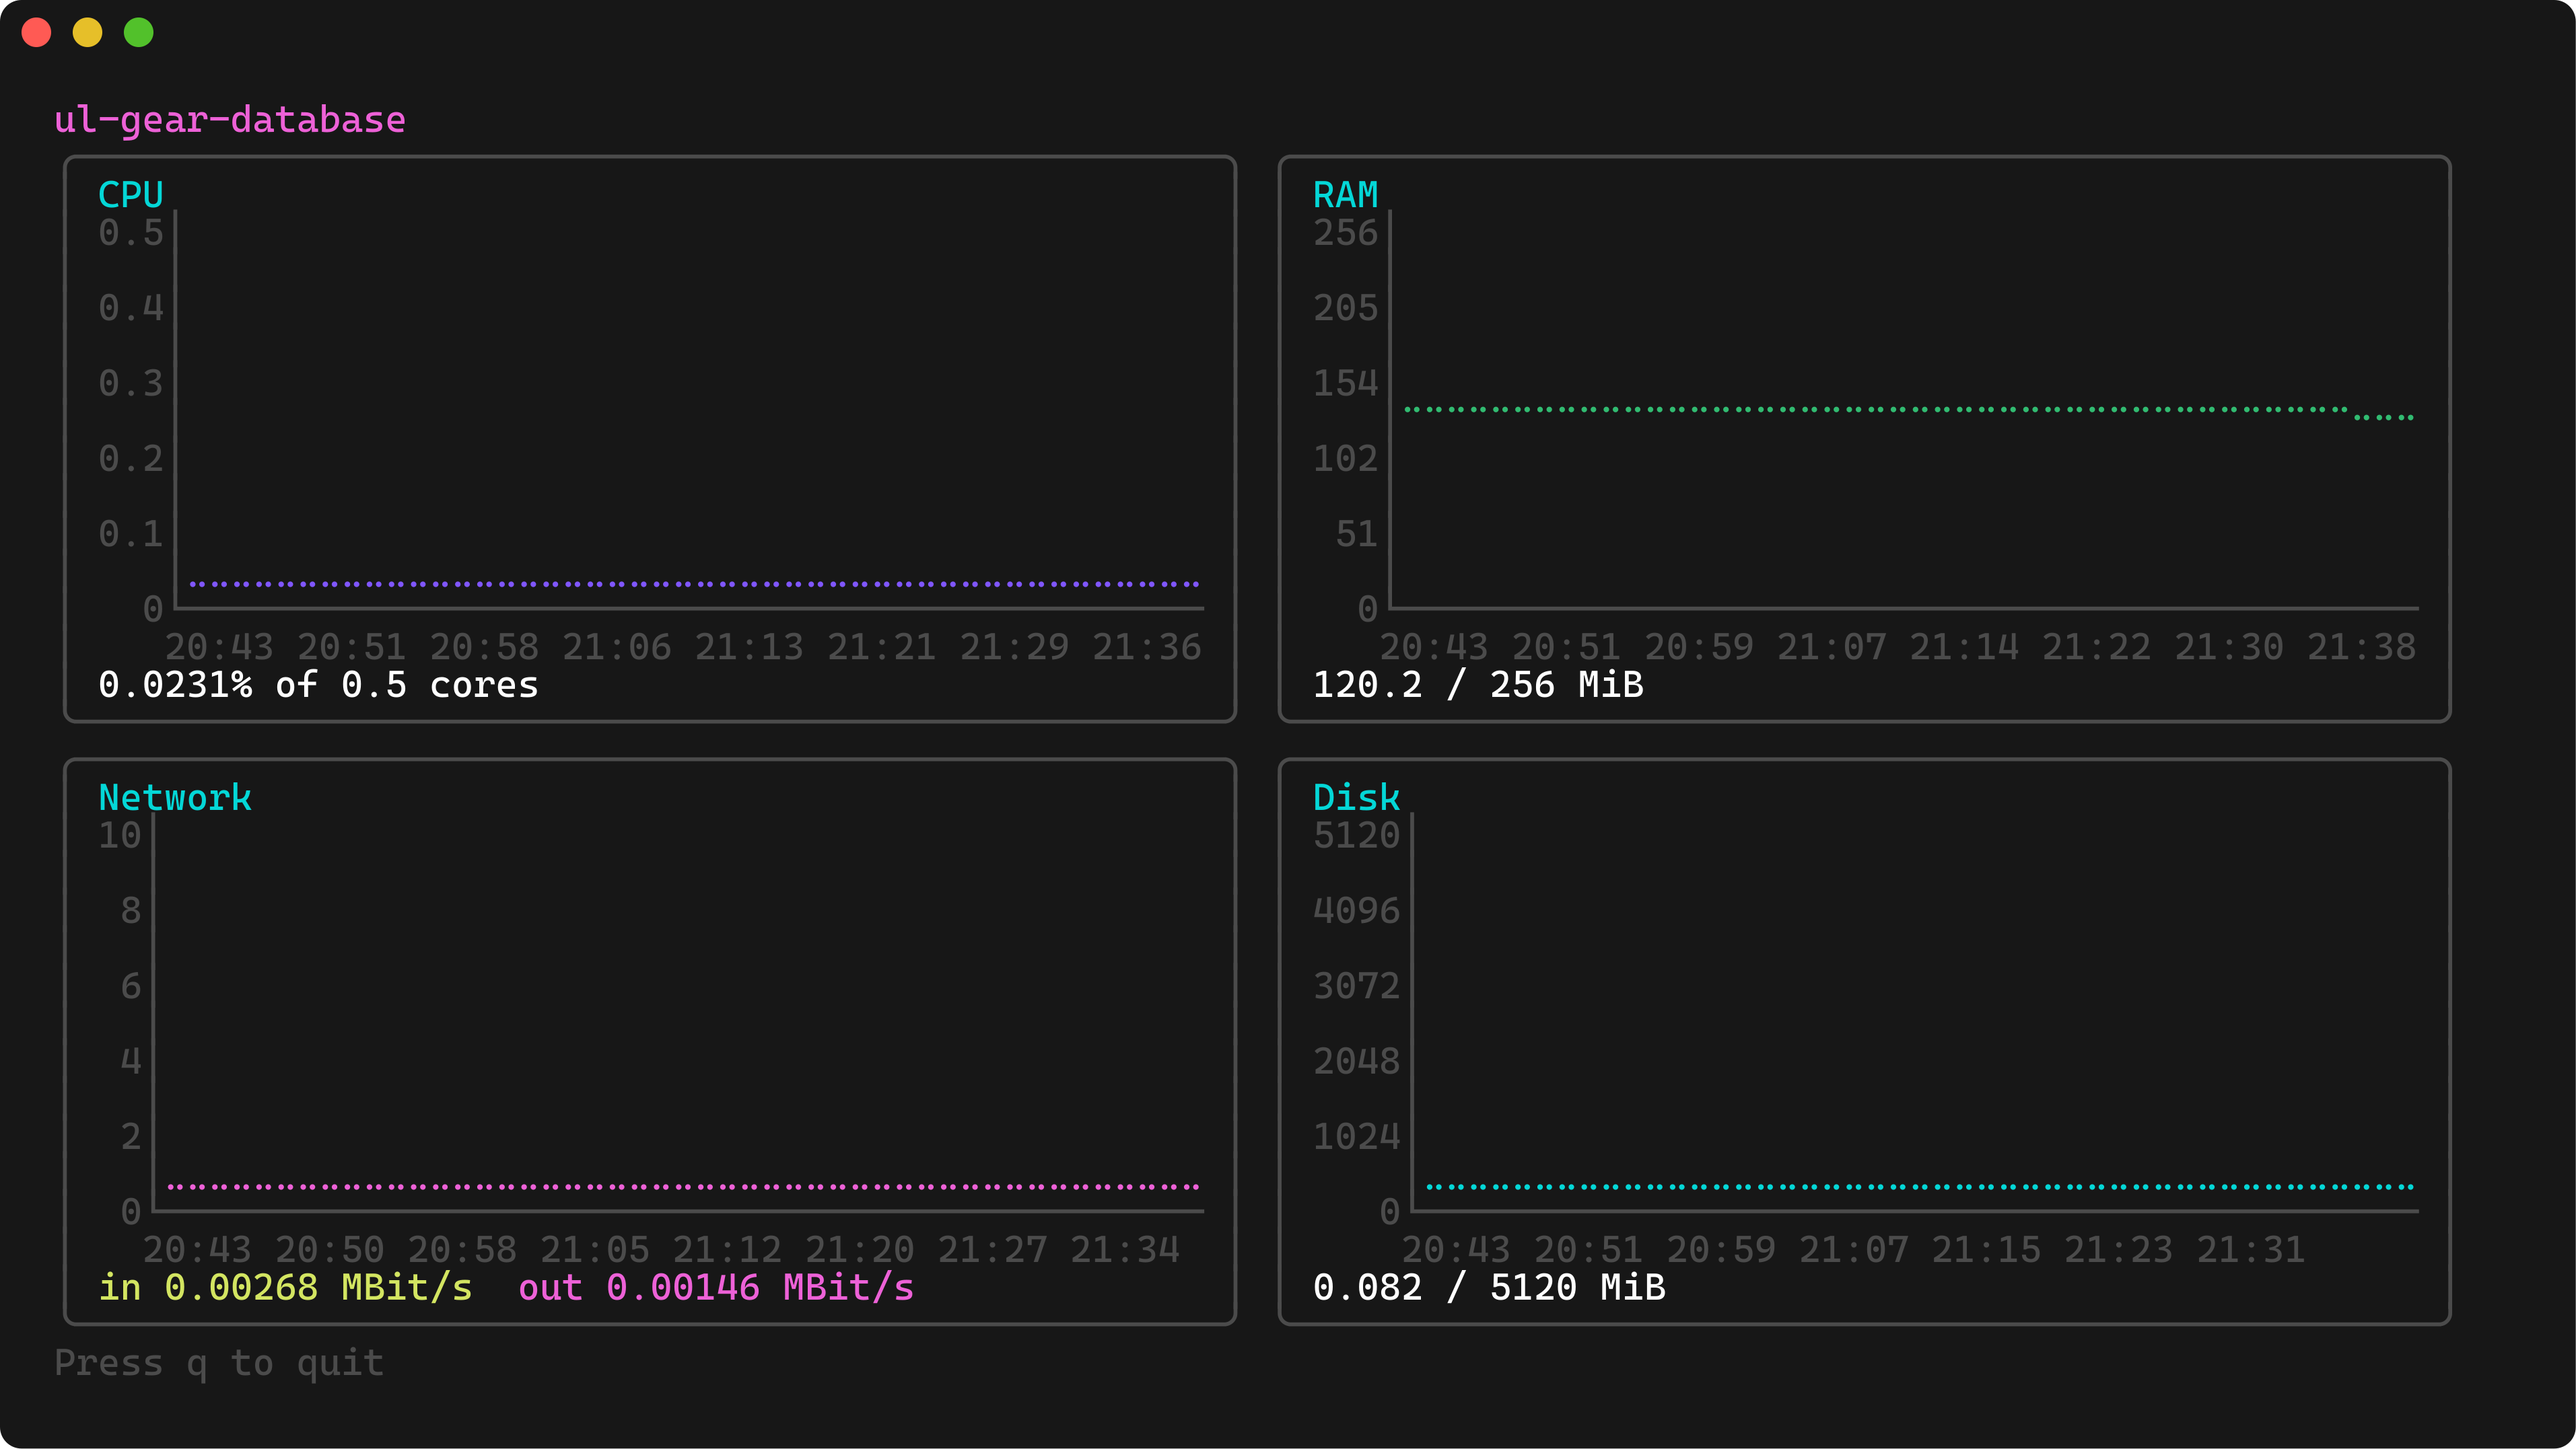
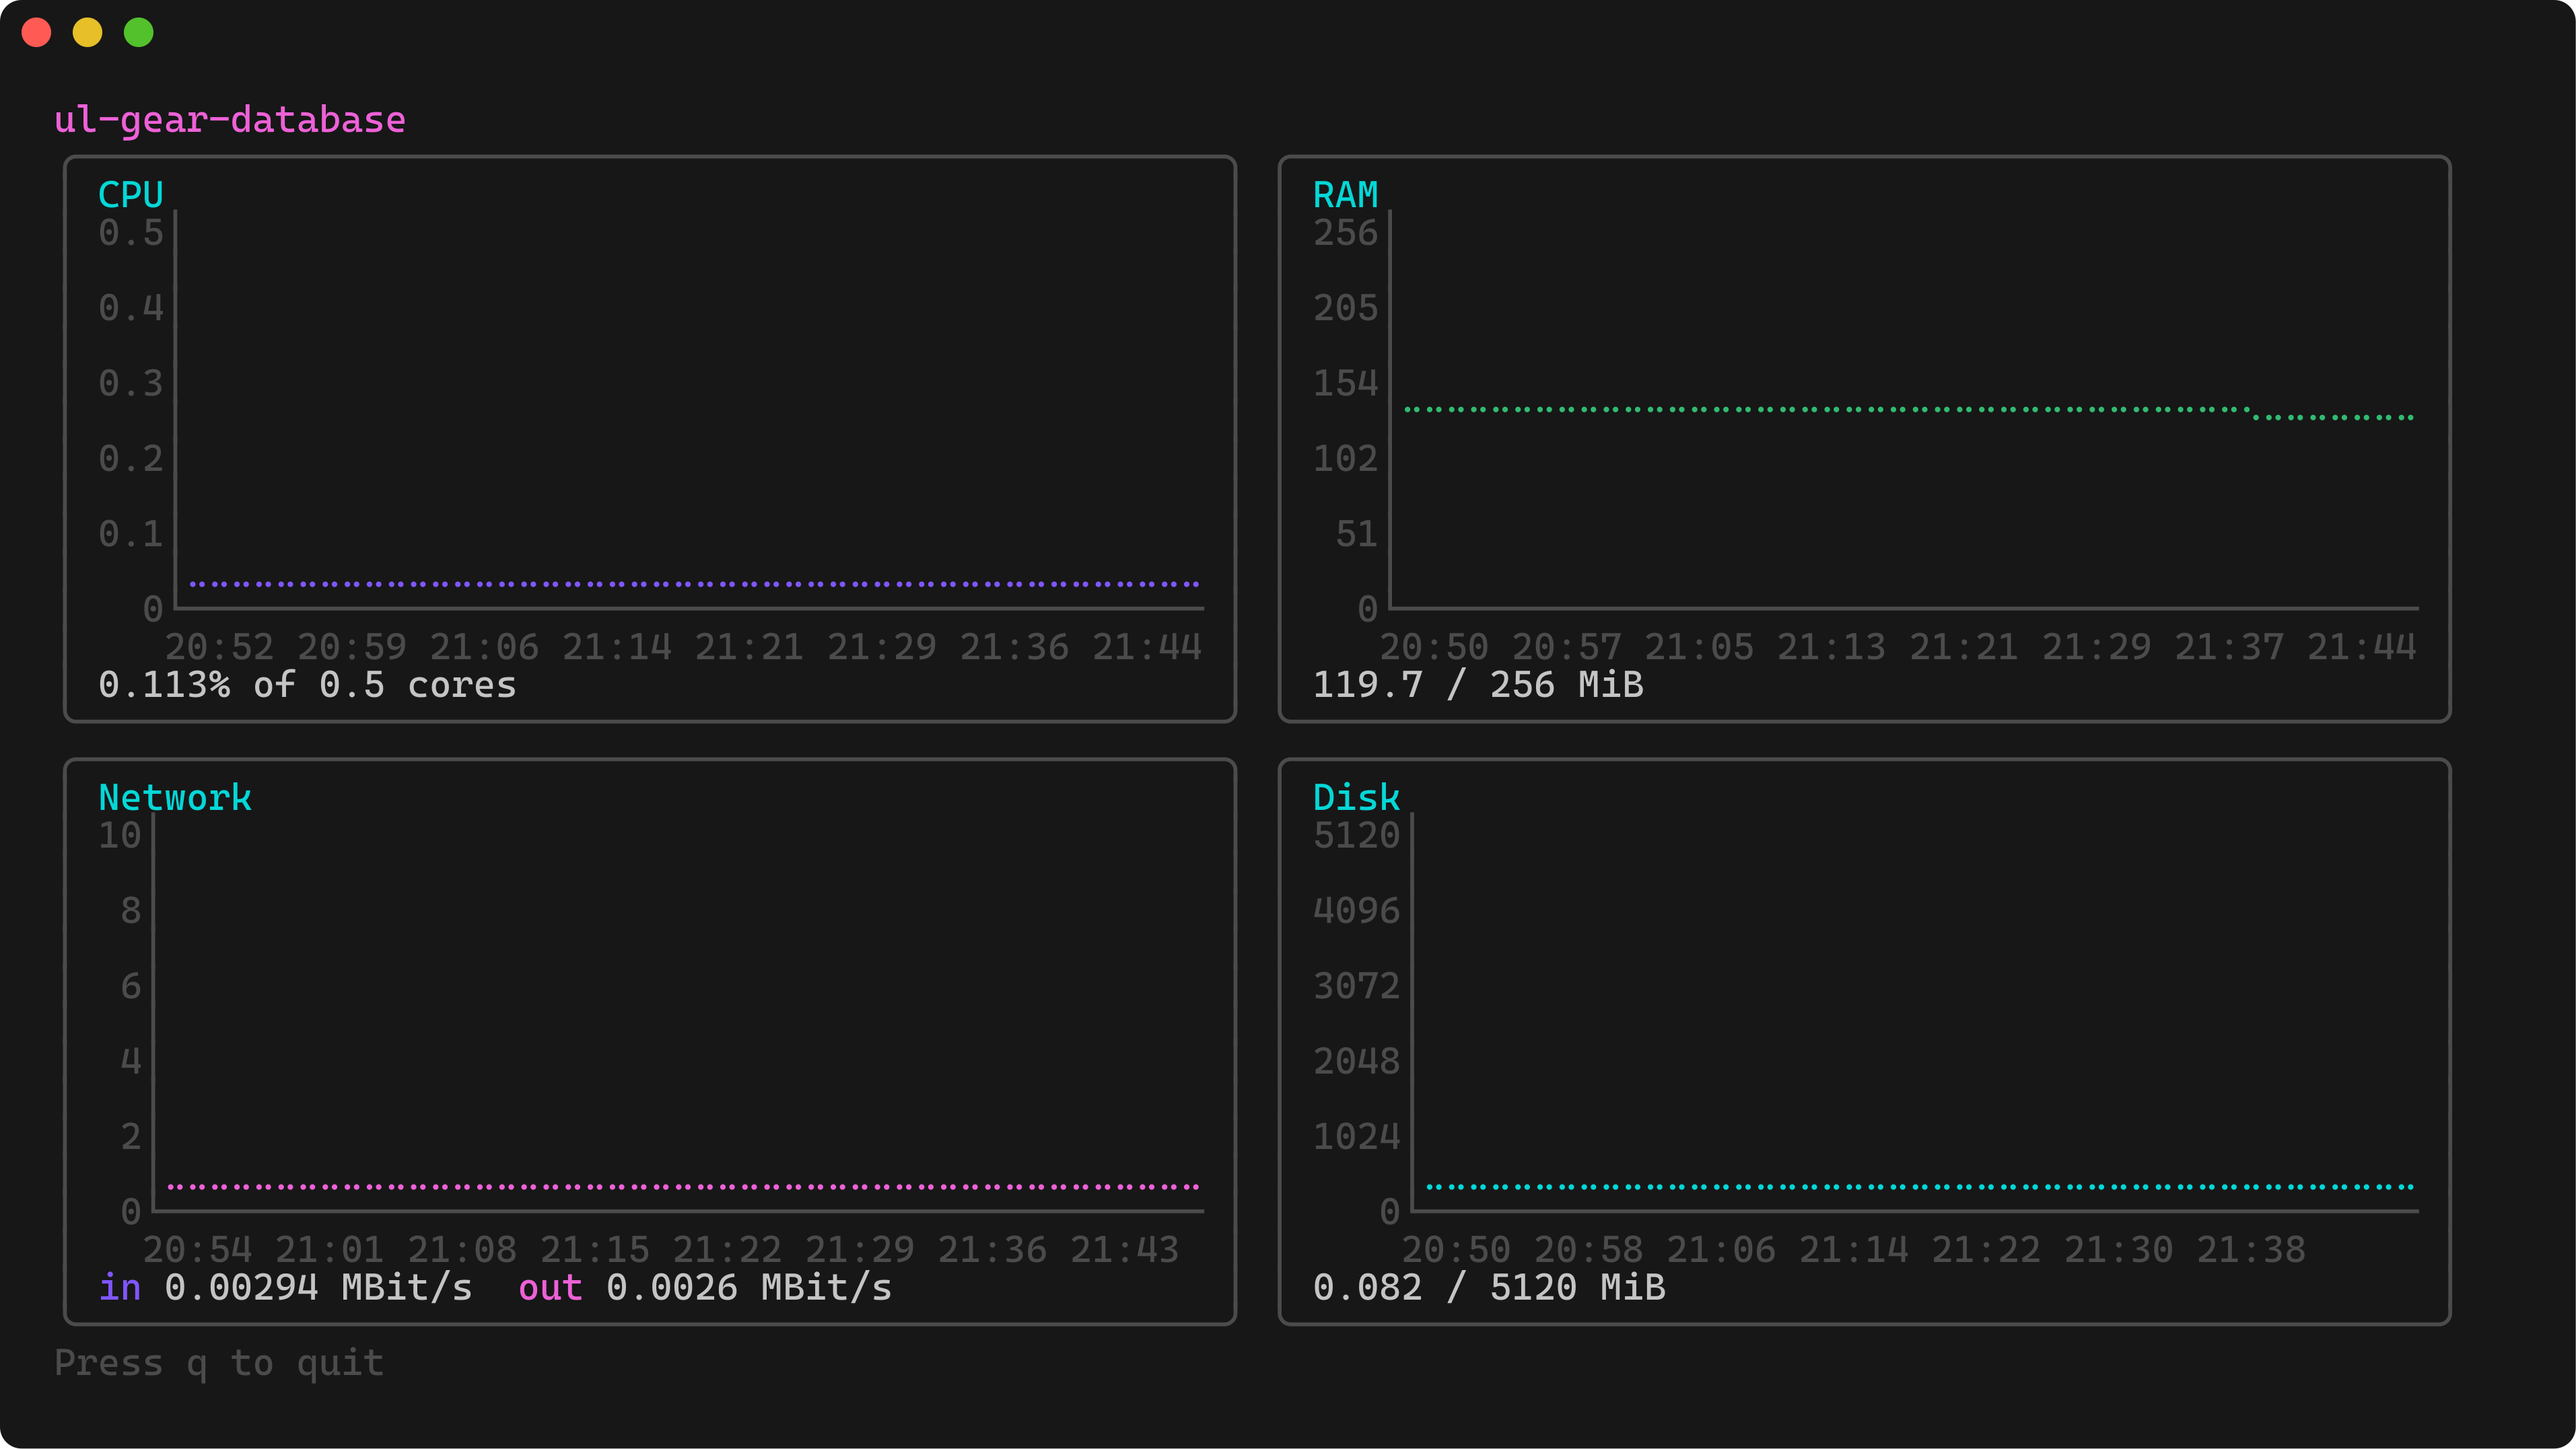
Inherit the terminal theme more gracefully
- Values use the theme's default foreground instead of bright white,
  so they stay readable on light themes.
- Chart axes, labels and the footer are faint rather than bright black,
  which some themes render nearly invisible.
- Network in is blue so it no longer shares the warning color.

Borders stay bright black since Lip Gloss can't render faint borders.

diff --git a/internal/model/model.go b/internal/model/model.go
@@ -15,21 +15,25 @@ import (
 	"github.com/charmbracelet/x/ansi"
 )
 
+// Colors are the terminal's numbered ANSI colors (or none), so the user's
+// theme decides the actual shades.
 var (
-	borderColor   = lipgloss.Color("8")
-	valueColor    = lipgloss.Color("15")
-	warnColor     = lipgloss.Color("3")
-	criticalColor = lipgloss.Color("1")
-	cpuColor      = lipgloss.Color("4")
-	ramColor      = lipgloss.Color("2")
-	diskColor     = lipgloss.Color("6")
-	netInColor    = lipgloss.Color("3")
-	netOutColor   = lipgloss.Color("5")
+	// Lip Gloss can't make borders faint, so they use bright black.
+	borderColor = lipgloss.Color("8")
+	// Values use the theme's default foreground, readable on light and dark.
+	valueColor    color.Color = lipgloss.NoColor{}
+	warnColor                 = lipgloss.Color("3")
+	criticalColor             = lipgloss.Color("1")
+	cpuColor                  = lipgloss.Color("4")
+	ramColor                  = lipgloss.Color("2")
+	diskColor                 = lipgloss.Color("6")
+	netInColor                = lipgloss.Color("4")
+	netOutColor               = lipgloss.Color("5")
 
 	appNameStyle = lipgloss.NewStyle().Bold(true).Foreground(lipgloss.Color("5"))
 	titleStyle   = lipgloss.NewStyle().Bold(true).Foreground(lipgloss.Color("6"))
 	errStyle     = lipgloss.NewStyle().Foreground(lipgloss.Color("1"))
-	footerStyle  = lipgloss.NewStyle().Foreground(lipgloss.Color("8"))
+	footerStyle  = lipgloss.NewStyle().Faint(true)
 )
 
 type statsMsg struct {

diff --git a/internal/chart/chart.go b/internal/chart/chart.go
@@ -17,7 +17,9 @@ import (
 // headroom keeps the line from touching the top of the chart.
 const headroom = 1.2
 
-var axisColor = lipgloss.Color("8")
+// dim is used for axes and labels. Faint dims the theme's own foreground,
+// which stays readable where "bright black" (color 8) can vanish.
+var dim = lipgloss.NewStyle().Faint(true)
 
 // Series is one line on a chart.
 type Series struct {
@@ -42,10 +44,9 @@ func Render(width, height int, limit float64, series ...Series) string {
 		last = first + 1
 	}
 
-	axis := lipgloss.NewStyle().Foreground(axisColor)
 	c := tslc.New(width, height,
 		tslc.WithXYSteps(2, 2),
-		tslc.WithAxesStyles(axis, axis),
+		tslc.WithAxesStyles(dim, dim),
 		tslc.WithXLabelFormatter(func(_ int, v float64) string {
 			return time.Unix(int64(v), 0).Format("15:04")
 		}),
@@ -84,8 +85,7 @@ func placeholder(width, height int) string {
 	return lipgloss.NewStyle().
 		Width(width).Height(height).
 		Align(lipgloss.Center, lipgloss.Center).
-		Foreground(axisColor).
-		Render("no data")
+		Render(dim.Render("no data"))
 }
 
 // formatValue keeps axis labels short: two significant figures for small

diff --git a/internal/chart/chart_test.go b/internal/chart/chart_test.go
@@ -140,3 +140,18 @@ func TestRender_ValuesAboveLimitStillFit(t *testing.T) {
 		t.Errorf("expected the axis to grow past the limit to fit 200 (250):\n%s", out)
 	}
 }
+
+func TestRender_AxesAreFaintNotGrey(t *testing.T) {
+	pts := []stats.Point{{Timestamp: 0, Value: 1}, {Timestamp: 60_000, Value: 2}}
+	for name, out := range map[string]string{
+		"chart":       Render(40, 8, 4, Series{Points: pts, Color: lipgloss.Color("4")}),
+		"placeholder": Render(40, 8, 4),
+	} {
+		if strings.Contains(out, "\x1b[90m") {
+			t.Errorf("%s: should not use bright black, which some themes hide", name)
+		}
+		if !strings.Contains(out, "\x1b[2m") {
+			t.Errorf("%s: dim text should be faint:\n%q", name, out)
+		}
+	}
+}

diff --git a/internal/model/model_test.go b/internal/model/model_test.go
@@ -538,3 +538,18 @@ func TestChartsFit_DependsOnlyOnTerminalHeight(t *testing.T) {
 		t.Error("a 19-row terminal is too short for charts")
 	}
 }
+
+func TestColors_InheritTerminalTheme(t *testing.T) {
+	if _, ok := valueColor.(lipgloss.NoColor); !ok {
+		t.Errorf("values should use the terminal's default foreground, got %v", valueColor)
+	}
+	if netInColor == warnColor || netOutColor == warnColor {
+		t.Error("network lines should not share the warning color")
+	}
+	if !footerStyle.GetFaint() {
+		t.Error("footer should be faint")
+	}
+	if _, ok := footerStyle.GetForeground().(lipgloss.NoColor); !ok {
+		t.Error("footer should not set a foreground color")
+	}
+}
